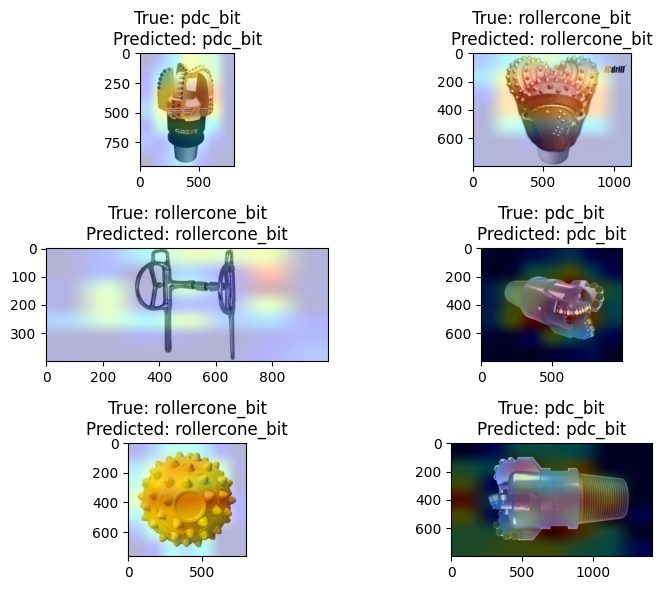
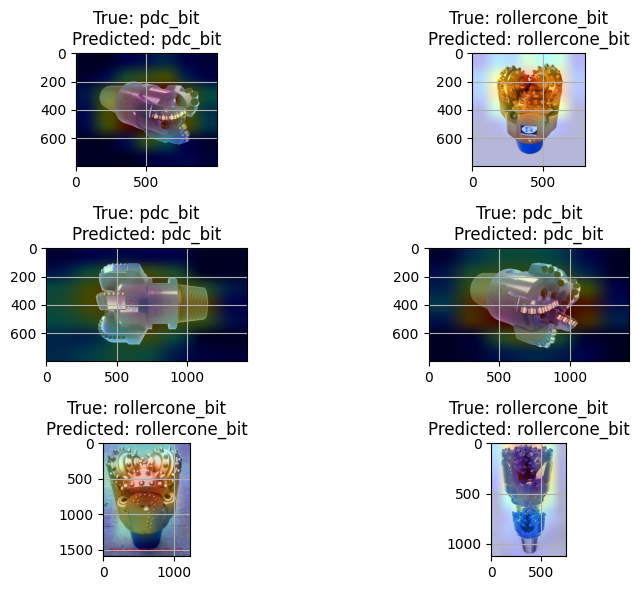
pred

diff --git a/neural_network_model/transfer_learning.py b/neural_network_model/transfer_learning.py
@@ -612,7 +612,7 @@ class TransferModel(Preprocessing, BitVision):
         print(" ## Test Loss: {:.5f}".format(results[0]))
         print("## Accuracy on the test set: {:.2f}%".format(results[1] * 100))
 
-    def predict_test(self, model_path: str = None, **kwargs):
+    def predict_test(self, model_path: Path = None, **kwargs):
 
         (
             train_generator,
@@ -625,6 +625,7 @@ class TransferModel(Preprocessing, BitVision):
         figure_folder_path = kwargs.get(
             "figure_folder_path", Path(__file__).parent / ".." / "figures"
         )
+        conf_matx_normalize = kwargs.get("normalize", None)
 
         # Load the model
         # here we check if the model_path path is provided and load it otherwise we use the self.model
@@ -652,7 +653,7 @@ class TransferModel(Preprocessing, BitVision):
         y_test = list(test_df.Label)
         print(classification_report(y_test, pred))
 
-        cf_matrix = confusion_matrix(y_test, pred, normalize="true")
+        cf_matrix = confusion_matrix(y_test, pred, normalize=conf_matx_normalize)
         plt.figure(figsize=(10, 6))
         sns.heatmap(
             cf_matrix,
@@ -824,6 +825,8 @@ class TransferModel(Preprocessing, BitVision):
                 )
                 # title label size
                 ax.title.set_size(title_lable_size)
+                # set grid on
+                ax.grid(True)
 
             else:
                 # Remove unused subplots
@@ -852,13 +855,15 @@ if __name__ == "__main__":
     # transfer_model.plot_classes_number()
     # transfer_model.analyze_image_names()
     # transfer_model.plot_data_images(num_rows=3, num_cols=3)
-    transfer_model.train_model(
-        epochs=3,
-        model_save_path=(Path(__file__).parent / ".." / "deep_model").resolve(),
-        model_name="tf_model_2.h5"
-    )
-    transfer_model.plot_metrics_results()
-    transfer_model.results()
+    # transfer_model.train_model(
+    #     epochs=3,
+    #     model_save_path=(Path(__file__).parent / ".." / "deep_model").resolve(),
+    #     model_name="tf_model_2.h5"
+    # )
+    # transfer_model.plot_metrics_results()
+    # transfer_model.results()
     # one can pass the model address to the predict_test method
-    transfer_model.predict_test()
+    transfer_model.predict_test(
+        model_path=(Path(__file__).parent / ".." / "deep_model" / "tf_model.h5").resolve()
+    )
     transfer_model.grad_cam_viz(num_rows=3, num_cols=2)
